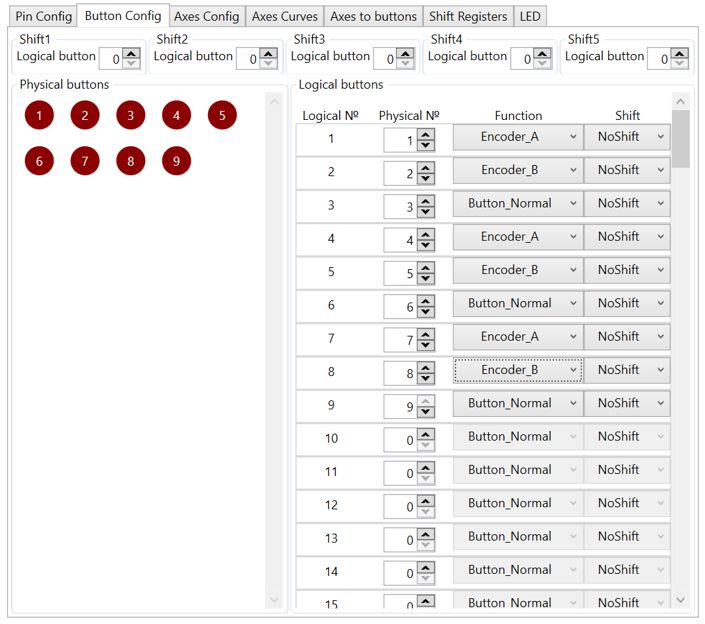
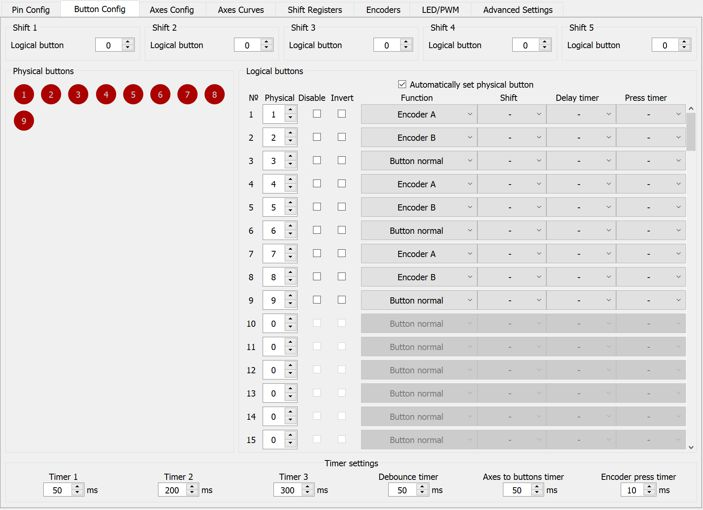
Add Maping table in russian instruction

Changed region(s): [[0.0, 0.0, 1.0, 1.0], [0.4481, 0.7353, 0.478, 0.7647], [0.4481, 0.6765, 0.478, 0.7059]]

diff --git a/rus/Подключение-кнопок-к-сдвиговым-регистрам.md b/rus/Подключение-кнопок-к-сдвиговым-регистрам.md
@@ -13,11 +13,13 @@
 Файл для изготовления платы самостоятельно в Sprint Layout, находится здесь https://github.com/FreeJoy-Team/FreeJoyWiki/blob/master/3rd-party/hardware/MMJoy2_74HC165.lay6
 
 * SPI_SCK – Общий для всех TLE5011 и всех цепочек сдвиговых регистров;
-* ShiftReg_LATCH - может быть общим для каждой цепочки сдвиговых регистров, либо общим для всех цепочек сдвиговых регистров;
-* ShiftReg_LATCH, ShiftReg_DATA – индивидуальные для каждой цепочки сдвиговых регистров (Здесь к контактам A7, A6 подключена вторая цепочка сдвиговых регистров)
-Питание сдвиговых регистров рекомендуется подключать от +3,3В.
 
-На различных вариантах плат и для разных видов регистров возможны различные названия выводов. Таблица соответсвия приведена ниже:
+* ShiftReg_LATCH - может быть общим для каждой цепочки сдвиговых регистров, либо общим для всех цепочек сдвиговых регистров;
+
+* ShiftReg_LATCH, ShiftReg_DATA – индивидуальные для каждой цепочки сдвиговых регистров (Здесь к контактам A7, A6 подключена вторая цепочка сдвиговых регистров)
+  Питание сдвиговых регистров рекомендуется подключать от +3,3В.
+
+  На различных вариантах плат и для разных видов регистров возможны различные названия выводов. Таблица соответсвия приведена ниже:
 
 | Имя в конфигураторе | Имя пина 74HC165 | Имя пина CD4021 | Альтернативные имена |
 |---------------------|------------------|-----------------|---------------|
@@ -28,7 +30,9 @@
 |         GND         |        GND       |       VSS       |     V-        |
 |    -------------    |        SER       |  SERIAL IN      |     INPUT/DATA_IN/IN |
 |    -------------    |     CLK_INH      |    ------------ |     CE |
- 
+
+Расположение контактов контроллера которым можно назначить те или иные функции для подключения сдвиговых регистров можно уточнить в [таблице мапинга](rus/Таблица-мапинга.md) в колонке Shift Registers.
+
 
 
 ## Назначение количества сдвиговых регистров.
@@ -41,6 +45,6 @@
 
 ![SO-16](../images/SO-16.jpg)
 
-К сдвиговым регистрам допускается подключать все виды переключателей (кнопки, тумблеры, энкодеры и т.д.). Их настройка аналогична настройке [кнопок покдключенных непосредственно к контроллеру](Подключение-кнопок-непосредственно-к-контроллеру.md).
+К сдвиговым регистрам допускается подключать все виды переключателей (кнопки, тумблеры, энкодеры и т.д.). Их настройка аналогична настройке кнопок подключенных непосредственно к контроллеру: [Настройка кнопок](Настройка-кнопок.md)..
 
 [На стартовую страницу](../README.md) | [Предыдущий раздел](Подключение-кнопок.md)

diff --git a/rus/Подключение-аналоговых-датчиков-через-внешний-АЦП-ADS1115.md b/rus/Подключение-аналоговых-датчиков-через-внешний-АЦП-ADS1115.md
@@ -7,7 +7,10 @@ ADS1115 - четырех канальный аналогово-цифровой 
 ![](../images/A1.5.jpg)
 
 * I2C_SCL – Общий для всех устройств I2C (AS5600 и АЦП ADS1115)
+
 * I2C_SDA – Общий для всех устройств I2C (AS5600 и АЦП ADS1115)
+
+  Расположение контактов контроллера которым можно назначить те или иные функции для подключения ADS1115 можно уточнить в [таблице мапинга](rus/Таблица-мапинга.md) в колонке Other.
 
 Как видно из рисунка выше АЦП можно купить уже распаянными на плату. К контроллеру можно подключить до четырех ADS1115 (при этом необходимо учитывать, что общее количество осей не должно превышать восьми). Для этого необходимо задать разные адреса устройствам. Это делается соединением вывода ADDR c другими выводами платы. Всего доступно 4 адреса: 
 
@@ -24,7 +27,7 @@ ADS1115 - четырех канальный аналогово-цифровой 
 
 Заданные платам адреса необходимо запомнить, т.к. потом они будут использоваться при [настройке осей](Настройка-осей.md).
 
-В качестве источника аналогового сигнала могут использоваться [переменные резисторы](Подключение-переменных-резисторов.md) как на рисунке в начале страницы,  [датчики Холла](Подключение-датчиков-Холла.md) и любые другие аналоговые датчики, которые имеют выходной сигнал от 0 до 3,3В.
+В качестве источника аналогового сигнала могут использоваться [переменные резисторы](Подключение-переменных-резисторов.md) как на рисунке в начале страницы,  [датчики Холла](Подключение-датчиков-Холла.md) и любые другие аналоговые датчики, которые имеют выходной сигнал от 0 до 3,3В. 
 
 АЦП можно применять подключения аналоговых датчиков, если необходимо снизить число проводников для их подключения (например в рукоятке РУД, РУС) или снизить влияние наводок при большой длине проводников (в этом случае АЦП целесообразно ставить рядом с источниками аналогового сигнала). Использование медленного интерфейса I2C приводит к тому, что добавление каждого нового канала в конфигурацию увеличивает время обработки всех сигналов, поэтому необходимо использовать ADS1115 осмотрительно.
 

diff --git a/rus/Подключение-переменных-резисторов.md b/rus/Подключение-переменных-резисторов.md
@@ -8,6 +8,8 @@
 
 Величина переменного сопротивления для аналоговой оси – 10КОм.
 
-Переменные резисторы являются наиболее простым, дешевым и доступным источником аналогового сигнала для игрового контроллера. Их рекомендуется применять для контроля тех осей, которые используются в симуляторах не часто и когда высокая точность показаний не очень важна. Ресурс переменных резисторов невелик и концу своей жизни (а инога и в ее начале) они начинают "шуметь", т.е. при отсутствии движения ручки сопротивление резистора хаотично меняется. Последующая настройка оси и методы уменьшения ее шума описаны в разделе [Настройка осей](Настройка-осей.md)
+Сигнальные контакты  переменных резисторов можно подключить к контактам A0 - A7 как видно в [таблице мапинга](rus/Таблица-мапинга.md) в колонке Analog Axis.
+
+Переменные резисторы являются наиболее простым, дешевым и доступным источником аналогового сигнала для игрового контроллера. Их рекомендуется применять для контроля тех осей, которые используются в симуляторах не часто и когда высокая точность показаний не очень важна. Ресурс переменных резисторов невелик и концу своей жизни (а иногда и в ее начале) они начинают "шуметь", т.е. при отсутствии движения ручки сопротивление резистора хаотично меняется. Последующая настройка оси и методы уменьшения ее шума описаны в разделе [Настройка осей](Настройка-осей.md)
 
 [На стартовую страницу](../README.md) | [Предыдущий раздел](Подключение-осей.md)

diff --git a/rus/Подключение-датчиков-TLE5010-5011.md b/rus/Подключение-датчиков-TLE5010-5011.md
@@ -1,18 +1,23 @@
 
 [На стартовую страницу](../README.md) | [Предыдущий раздел](Подключение-осей.md)
 
-TLE5011 и TLE5010 - одноканальные цифровые датчики Холла. Работают по интерфейсу SPI.
+TLE5011, TLE5010, TLE 5012B - одноканальные цифровые датчики Холла. Работают по интерфейсу SPI.
 
 ![](../images/A1.1.jpg)
- 
+
 Печатную плату для датчика можно изготовить самостоятельно, либо купить готовую. Файл для изготовления платы в Sprint Layout, находится здесь https://github.com/FreeJoy-Team/FreeJoyWiki/blob/master/3rd-party/hardware/TLE5011.lay6
 
 **Внимание: Для линии данных датчиков TLE501х должен быть предусмотрен один резистор подтяжки к 3.3В номиналом не более 1кОм**
 
 * SPI_SCK – Общий для всех SPI устройств (TLE5011,  MLX90393, MCP32XX и всех цепочек сдвиговых регистров);
+
 * SPI_MOSI – общий для всех SPI устройств. На некоторых платах TLE могут встречаться обозначения MISO для этого пина;
+
 * TLE5011_GEN – общий для всех TLE5011;
+
 * TLE5011_CS – индивидуальный для каждого TLE5011.
+
+  Расположение контактов контроллера которым можно назначить те или иные функции для подключения датчиков TLE5010, 5011, 5012B можно уточнить в [таблице мапинга](rus/Таблица-мапинга.md) в колонке SPI Devices.
 
 Стоимость датчиков TLE5010 и TLE5011 сравнима с Датчиками Холла. Их рекомендуется применять для контроля наиболее важных осей контроллера, которые используются в симуляторах часто, и когда необходима наиболее высокая точность показаний. Ресурс датчиков TLE практически неограничен, т.к. они являются бесконтактными как и датчики Холла.
 

diff --git a/rus/Подключение-аналоговых-датчиков-через-внешний-АЦП-MCP32XX.md b/rus/Подключение-аналоговых-датчиков-через-внешний-АЦП-MCP32XX.md
@@ -5,10 +5,16 @@
 MCP32XX - семейство аналогово-цифровых преобразователей (АЦП). Последняя цифра в наименовании обозначает количество аналоговых каналов, которые возможно подключить к АЦП. Существуют одно-, двух-, четырех- и восьмиканальные модификации. Работает по интерфейсу SPI.
 
 ![](../images/A1.6.jpg)
- 
+
 * SPI_SCK – Общий для всех SPI устройств (TLE5011, MLX90393, MCP32XX и всех цепочек сдвиговых регистров);
+
 * SPI_MISO – общий для всех SPI устройств;
+
+* SPI_MOSI – общий для всех SPI устройств (необходим для подключения MCP3202, 3204, 3206, контакт Din микросхемы);
+
 * MCP3201_CS – индивидуальный для каждого АЦП.
+
+  Расположение контактов контроллера которым можно назначить те или иные функции для подключения MCP32XX можно уточнить в [таблице мапинга](rus/Таблица-мапинга.md) в колонке SPI Devices.
 
 Прочие модификации АЦП подключаются аналогично. Цоколевка разных модификаций MCP32XX приведена ниже:
 

diff --git a/rus/Подключение-датчиков-MLX90393.md b/rus/Подключение-датчиков-MLX90393.md
@@ -5,11 +5,16 @@
 MLX90393 - цифровой 3-х канальный датчик Холла. Работает по интерфейсу SPI.
 
 ![](../images/A1.4.jpg)
- 
+
 * SPI_SCK – Общий для всех SPI устройств (TLE5011,  MLX90393, MCP32XX и всех цепочек сдвиговых регистров);
+
 * SPI_MISO – общий для всех SPI устройств;
+
 * SPI_MOSI – общий для всех SPI устройств (где он требуется);
+
 * MLX90393_CS – индивидуальный для каждого MLX90393.
+
+  Расположение контактов контроллера которым можно назначить те или иные функции для подключения MLX90393 можно уточнить в [таблице мапинга](rus/Таблица-мапинга.md) в колонке SPI Devices.
 
 Как видно из рисунка выше датчики можно купить уже распаянными на плату, которая подлежит минимальной доработке (см. рисунок выше).
 

diff --git a/rus/Подключение-датчика-AS5600.md b/rus/Подключение-датчика-AS5600.md
@@ -11,7 +11,10 @@ AS5600 - цифровой одноканальный датчик Холла. Р
 ![](../images/A1.3.jpg)
 
 * I2C_SCL – Общий для всех устройств I2C (AS5600 и АЦП ADS1115)
+
 * I2C_SDA – Общий для всех устройств I2C (AS5600 и АЦП ADS1115)
+
+  Расположение контактов контроллера которым можно назначить те или иные функции для подключения датчиков AS5600 можно уточнить в [таблице мапинга](rus/Таблица-мапинга.md) в колонке Other.
 
 Как видно из рисунка выше датчики можно купить уже распаянными на плату. Из за того, что датчики имеют один и тот же адрес присвоенный на заводе, к **FreeJoy в цифровом режиме можно подключить только один датчик такого типа**.
 

diff --git a/rus/Подключение-кнопок-непосредственно-к-контроллеру.md b/rus/Подключение-кнопок-непосредственно-к-контроллеру.md
@@ -20,6 +20,10 @@
 
 * Button_Row и Button_Column – строки и столбцы матрицы соответственно. Количество строк и столбцов матрицы перечислено в строках Rows of buttons и Columns of buttons поля Current Config с правой стороны конфигуратора. При этом, количество кнопок матрицы можно рассчитать перемножив число строк и столбцов.
 
+  Функции кнопок можно назначить почти на любые контакты контроллера, это можно уточнить в [таблице мапинга](rus/Таблица-мапинга.md).
+  
+  Далее кнопки необходимо настроить: [Настройка кнопок](Настройка-кнопок.md).
+
 [На стартовую страницу](../README.md) | [Предыдущий раздел](Подключение-кнопок.md)
 
 

diff --git a/rus/Подключение-датчиков-Холла.md b/rus/Подключение-датчиков-Холла.md
@@ -10,6 +10,8 @@
 
 На рисунке изображено подключение датчика Холла SS49E. Сглаживающий конденсатор рекомендуется располагать как можно ближе к датчику. Датчик Холла реагирует на плавную смену полюсов изменением напряжения на выходе (О), как потенциометр.
 
+Сигнальные контакты датчиков Холла можно подключить к контактам A0 - A7 как видно в [таблице мапинга](rus/Таблица-мапинга.md) в колонке Analog Axis.
+
 Возможное расположение магнита относительно датчика Холла:
 
 ![](../images/A1.2.1.jpg)

diff --git a/rus/Таблица-мапинга.md b/rus/Таблица-мапинга.md
@@ -1,0 +1,27 @@
+[На стартовую страницу](../README.md) | [Предыдущий раздел](../README.md)
+
+
+
+![Mapping Table](..\images\Mapping Table.jpg)
+
+Сокращения:
+
+Btn G,V,M – Button Gnd, Button Vcc, Button Row, Button Column
+
+Axis Analog
+
+ShiftReg L D –ShiftReg LATCH, ShiftReg DATA
+
+SPI CS – TLE 5011CS, TLE5012B CS, MCP3201 CS, MCP3202 CS, MCP3204 CS, MCP3208 CS, MLX 90393 CS, AS 5048A CS
+
+SPI MISO* – SPI MISO, TLE 5011CS, TLE5012B CS
+
+TLE5011Gen* - TLE 5011Gen, MCP3201 CS, MCP3202 CS, MCP3204 CS, MCP3208 CS, MLX 90393 CS, AS 5048A CS
+
+LED – LED Single, LED Row, LED Column
+
+PWM – LED PWM
+
+F Encoder – Fast Encoder
+
+[На стартовую страницу](../README.md) | [Предыдущий раздел](../README.md)

diff --git a/rus/Подключение-энкодеров.md b/rus/Подключение-энкодеров.md
@@ -31,4 +31,6 @@
 
 Подключенные энкодеры можно использовать как самостоятельные кнопки (только энкодеры 1-15), либо как [источник оси](Подключение-быстрых-энкодеров.md).
 
+Энкодеры как и кнопки можно назначить почти на любые контакты контроллера, это можно уточнить в [таблице мапинга](rus/Таблица-мапинга.md).
+
 [На стартовую страницу](../README.md) | [Предыдущий раздел](Подключение-кнопок.md)

diff --git a/README.md b/README.md
@@ -24,6 +24,7 @@
 * [Подключение осей](rus/Подключение-осей.md)
 * [Подключение светодиодов](rus/Подключение-светодиодов.md)
 * [Дополнительные настройки](rus/Продвинутые-настройки.md)
+* [Таблица мапинга](rus/Таблица-мапинга.md)
 
 ## 简体中文指南
 翻译进行中 
